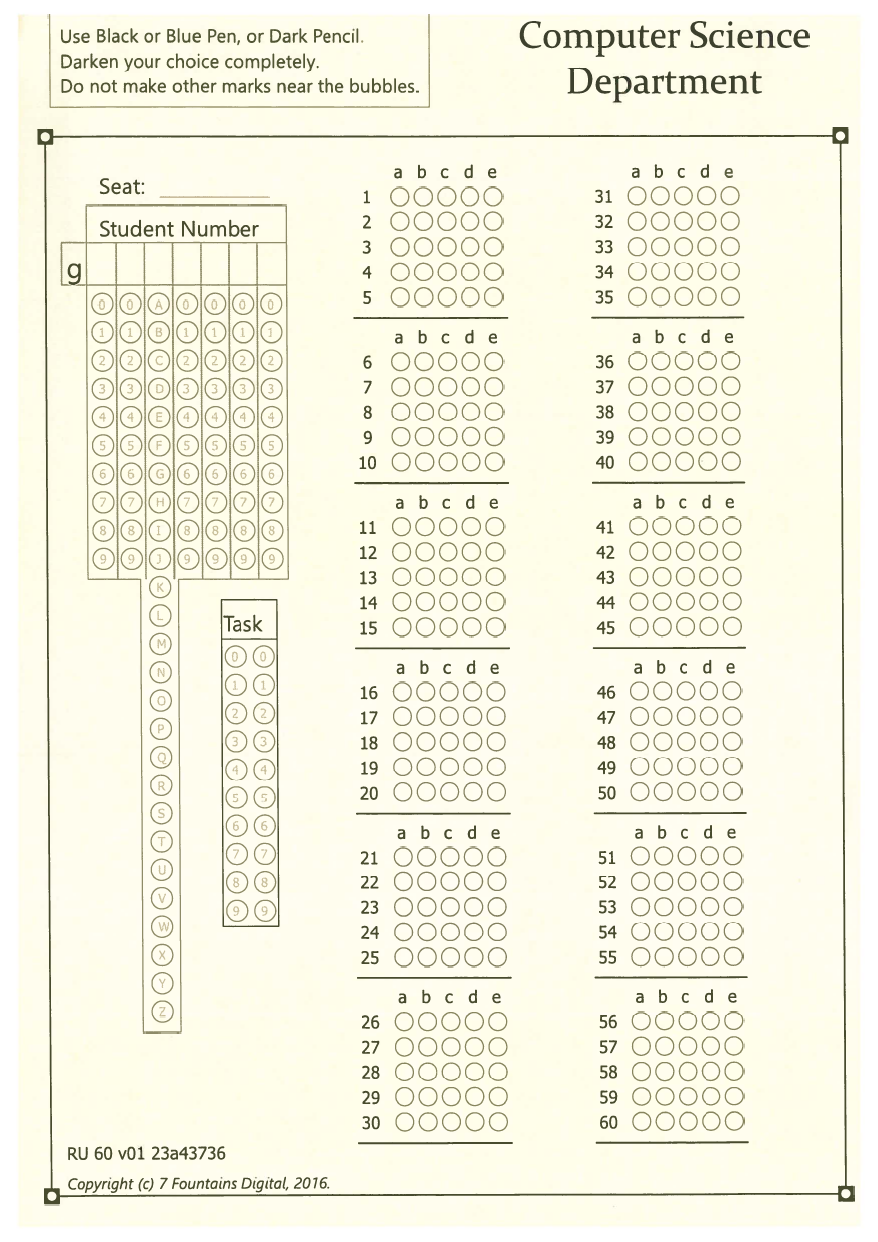
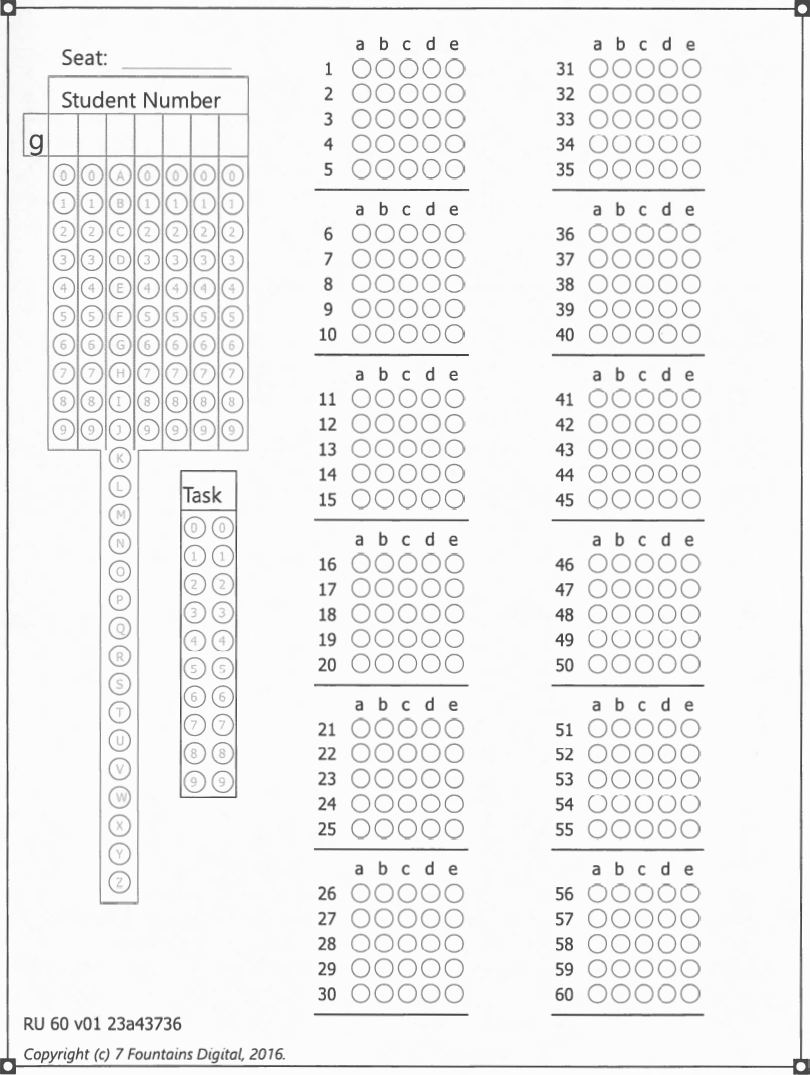
transform contours

Changed region(s): [[0.0, 0.0, 1.0, 1.0]]

diff --git a/contourcircle.py b/contourcircle.py
@@ -1,0 +1,69 @@
+# find contours in the thresholded image, then initialize
+# the list of contours that correspond to questions
+cnts = cv.findContours(thresh.copy(), cv.RETR_EXTERNAL,
+        cv.CHAIN_APPROX_SIMPLE)
+cnts = conv.grab_contours(cnts)
+questionCnts = []
+ 
+# loop over the contours
+print(len(cnts))
+for c in cnts:
+    # compute the bounding box of the contour, then use the
+    # bounding box to derive the aspect ratio
+    (x, y, w, h) = cv.boundingRect(c)
+    #print(cv.boundingRect(c))
+    ar = w / float(h)
+    # in order to label the contour as a question, region
+    # should be sufficiently wide, sufficiently tall, and
+    # have an aspect ratio approximately equal to 1
+    if w >= 20 and h >= 20 and ar >= 0.9 and ar <= 1.1:
+        questionCnts.append(c)
+
+# sort the question contours top-to-bottom, then initialize
+# the total number of correct answers
+questionCnts = cont.sort_contours(questionCnts, method="top-to-bottom")
+correct = 0
+ 
+# each question has 5 possible answers, to loop over the
+# question in batches of 5
+for (q, i) in enumerate(np.arange(0, len(questionCnts), 5)):
+    # sort the contours for the current question from
+    # left to right, then initialize the index of the
+    # bubbled answer
+    cnts = cont.sort_contours(questionCnts[i:i + 5])[0]
+    bubbled = None
+
+        # loop over the sorted contours
+for (j, c) in enumerate(cnts):
+    # construct a mask that reveals only the current
+    # "bubble" for the question
+    mask = np.zeros(thresh.shape, dtype="uint8")
+    cv.drawContours(mask, [c], -1, 255, -1)
+
+    # apply the mask to the thresholded image, then
+    # count the number of non-zero pixels in the
+    # bubble area
+    mask = cv.bitwise_and(thresh, thresh, mask=mask)
+    total = cv.countNonZero(mask)
+
+# if the current total has a larger number of total
+# non-zero pixels, then we are examining the currently
+# bubbled-in answer
+if bubbled is None or total > bubbled[0]:
+    bubbled = (total, j)
+# initialize the contour color and the index of the
+# *correct* answer
+color = (0, 0, 255)
+k = ANSWER_KEY[q]
+
+# check to see if the bubbled answer is correct
+if k == bubbled[1]:
+    color = (0, 255, 0)
+    correct += 1
+
+# draw the outline of the correct answer on the test
+cv.drawContours(paper, [cnts[k]], -1, color, 3)
+
+cv.imwrite("test1.png", paper)
+cv.imwrite("test2.png", warped)
+sys.exit()

diff --git a/mcq.py b/mcq.py
@@ -17,27 +17,28 @@ from imutils.perspective import four_point_transform
 from imutils import contours
 import imutils
 import imutils.convenience as conv
+import imutils.contours as cont
 import sys
 
 def main():
     try:
         fn = sys.argv[1]
     except IndexError:
-        fn = 'board.jpg'
+        fn = 'extra/clean.png'
 
     src = cv.imread(cv.samples.findFile(fn))
-    img = cv.cvtColor(src, cv.COLOR_BGR2GRAY)
+    cimg = src.copy() # numpy function
+    #img = cv.cvtColor(src, cv.COLOR_BGR2GRAY)
     #img = cv.bilateralFilter(img, 11, 17, 17)
     #img = cv.GaussianBlur(img, (5, 5), 0)
     #img = cv.Canny(img, 75, 200)
-    img = cv.bitwise_not(img)
+    #img = cv.bitwise_not(img)
     #img = cv.medianBlur(img, 5)
-    kernel = np.ones((5,5),np.uint8)
+    #kernel = np.ones((5,5),np.uint8)
     #img = cv.erode(img,kernel,iterations = 1)
     #img = cv.dilate(img,kernel,iterations = 2)
     #img = cv.morphologyEx(img, cv.MORPH_CLOSE, kernel)
     #img = cv.morphologyEx(img, cv.MORPH_CLOSE, kernel)
-    cimg = src.copy() # numpy function
 
     # find contours in the edge map, then initialize
     # the contour that corresponds to the document
@@ -68,23 +69,30 @@ def main():
             if len(approx) == 4:
                 docCnt = approx
                 break
-
     # apply a four point perspective transform to both the
     # original image and grayscale image to obtain a top-down
     # birds eye view of the paper
     paper = four_point_transform(image, docCnt.reshape(4, 2))
     warped = four_point_transform(gray, docCnt.reshape(4, 2))
+    #threshold
+    # apply Otsu's thresholding method to binarize the warped
+    # piece of paper
+    return paper, warped
+    thresh = cv.threshold(warped, 0, 255,
+            cv.THRESH_BINARY_INV | cv.THRESH_OTSU)[1]
+    bitwize = cv.bitwise_not(warped)
 
-    cv.imshow("source", paper)
-    cv.imshow("source", warped)
-#    img = paper
-#    cimg = warped
+
+    #img = paper
+    #cimg = warped
+    #cv.imshow("source", paper)
+    #cv.imshow("source", warped)
     #cv.imshow("source", img)
-    k = cv.waitKey(0)
-    if k == ord('q'):
-        cv.imwrite("huffme.png", img)
-        cv.imwrite("huffcir.png", cimg)
-    print('Done')
+    #k = cv.waitKey(0)
+    #if k == ord('q'):
+    #    cv.imwrite("huffme.png", img)
+    #    cv.imwrite("huffcir.png", cimg)
+    #print('Done')
 
 
 if __name__ == '__main__':

diff --git a/makestraight.py b/makestraight.py
@@ -1,0 +1,24 @@
+
+
+
+#---- 4 corner points of the bounding box
+#pts_src = np.array([[17.0,0.0], [77.0,5.0], [0.0, 552.0],[53.0, 552.0]])
+pts_src = docCnt
+
+#---- 4 corner points of the black image you want to impose it on
+#pts_dst = np.array([[0.0,0.0],[77.0, 0.0],[ 0.0,552.0],[77.0, 552.0]])
+pts_dst = docCnt
+
+#---- forming the black image of specific size
+#im_dst = np.zeros((552, 77, 3), np.uint8)
+im_dst = np.zeros_like(warped)
+
+#---- Framing the homography matrix
+h, status = cv.findHomography(pts_src, pts_dst)
+
+#---- transforming the image bound in the rectangle to straighten
+im_out = cv.warpPerspective(warped, h, (im_dst.shape[1],im_dst.shape[0]))
+cv.imwrite("warped.png", warped)
+cv.imwrite("im_out.png", im_out)
+sys.exit()
+#cv.imwrite("im_out.jpg", im_out)
